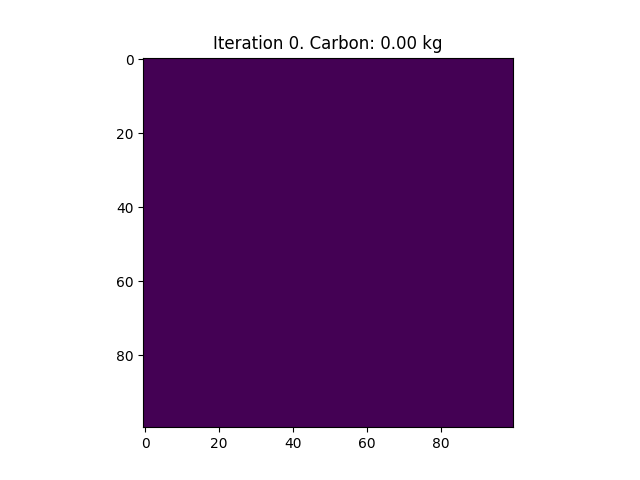
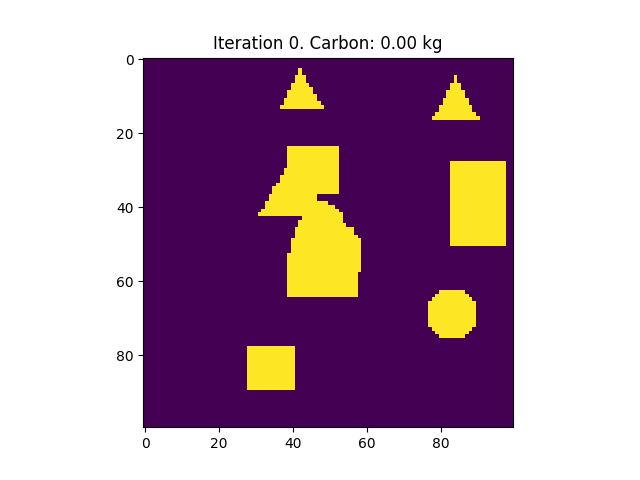
Add support for keepout areas

diff --git a/forest_env.py b/forest_env.py
@@ -6,6 +6,7 @@ import subprocess
 import os
 import sqlite3
 import pandas as pd
+from skimage.draw import random_shapes
 
 
 def read_table(db_path="output.sqlite", table_name="stand") -> pd.DataFrame:
@@ -92,15 +93,32 @@ class ForestEnv(gym.Env):
         self.seedlings_planted = []
         self.previous_carbon = 0.0
         self.species_names = species_names
+        self.keepout = self.get_random_keepout_mask(grid_size)
 
         self.action_space = spaces.Box(-1, 1, shape=(3,), dtype=np.float32)
 
         self.observation_space = spaces.Box(
             low=0,
-            high=len(species_names),
+            high=len(species_names) + 1,
             shape=(grid_size, grid_size, 1),
             dtype=np.uint8,
         )
+
+    def get_random_keepout_mask(self, size):
+        image, labels = random_shapes(
+            (size, size),
+            max_shapes=10,
+            min_shapes=1,
+            min_size=size // 8,
+            max_size=size // 4,
+            allow_overlap=True,
+            channel_axis=None,
+        )
+
+        # This is the area not populated by any shape
+        mask = image < 255
+
+        return mask
 
     def get_observation(self):
         """
@@ -108,13 +126,19 @@ class ForestEnv(gym.Env):
         where each cell contains the index of the species planted at that location.
         If no species is planted, the cell contains 0.
         """
+        # obs = np.zeros((self.grid_size, self.grid_size, 1), dtype=np.uint8)
+
+        # Start with a grid where 0 is empty and 1 is keep out
+
+        # Make obs a 3D array (add a new axis to self.keepout)
         obs = np.zeros((self.grid_size, self.grid_size, 1), dtype=np.uint8)
+        obs[:, :, 0] = self.keepout
 
         # Populate the observation grid with species data
         for seedling in self.seedlings_planted:
             x, y = int(seedling[0]), int(seedling[1])
             species_index = self.species_names.index(seedling[2])
-            obs[x, y, 0] = species_index
+            obs[x, y, 0] = species_index + 2  # +2 because 0 is empty and 1 is keep out
 
         return obs
 
@@ -127,6 +151,7 @@ class ForestEnv(gym.Env):
         self.seedlings_planted = []
         self.previous_carbon = 0.0
         self.current_carbon = 0.0
+        self.keepout = self.get_random_keepout_mask(self.grid_size)
         obs = self.get_observation()
         return obs, {}
 
@@ -228,6 +253,12 @@ class ForestEnv(gym.Env):
         y = min(max(y, 0), self.grid_size - 1)
         species_index = int((action[2] + 1) / 2 * (len(self.species_names) - 1))
 
+        # Skip and send negative reward if the coordinates are in the keepout area
+        if self.keepout[int(x), int(y)] == 1:
+            # print("Coordinates are in the keepout area.")
+            reward = -100.0
+            return (self.get_observation(), reward, False, False, {})
+
         # Plant a seedling at the specified coordinates
         seedling = [x, y, self.species_names[species_index]]
         self.seedlings_planted.append(seedling)
@@ -272,7 +303,9 @@ class ForestEnv(gym.Env):
         elif self.render_mode == "human":
             fig, ax = plt.subplots()
             ax.imshow(self.get_observation(), cmap="viridis")
-            ax.set_title(f"Iteration {len(self.seedlings_planted)}. Carbon: {self.current_carbon:.2f} kg")
+            ax.set_title(
+                f"Iteration {len(self.seedlings_planted)}. Carbon: {self.current_carbon:.2f} kg"
+            )
             plt.savefig("output/latest.png")
 
     def close(self):

diff --git a/train_agent.py b/train_agent.py
@@ -219,8 +219,9 @@ save_dir = "baseline_checkpoints/"
 callback = SaveOnBestTrainingRewardCallback(check_freq=100, log_dir=save_dir, verbose=1)
 os.makedirs(save_dir, exist_ok=True)
 
-# model = PPO("MlpPolicy", env, verbose=1)
-model = PPO.load(f"{save_dir}/best_model.zip", env=env)
+print("Training the agent...")
+model = PPO("MlpPolicy", env, verbose=1)
+# model = PPO.load(f"{save_dir}/best_model.zip", env=env)
 
 
 vec_env = make_vec_env(
